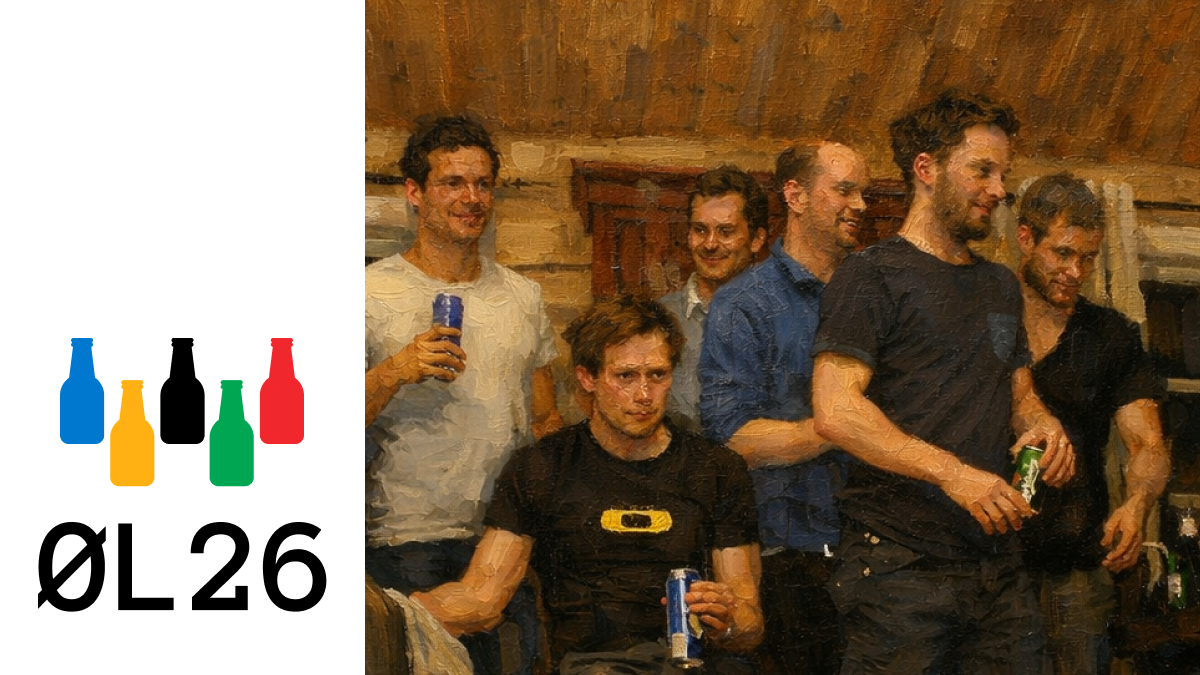
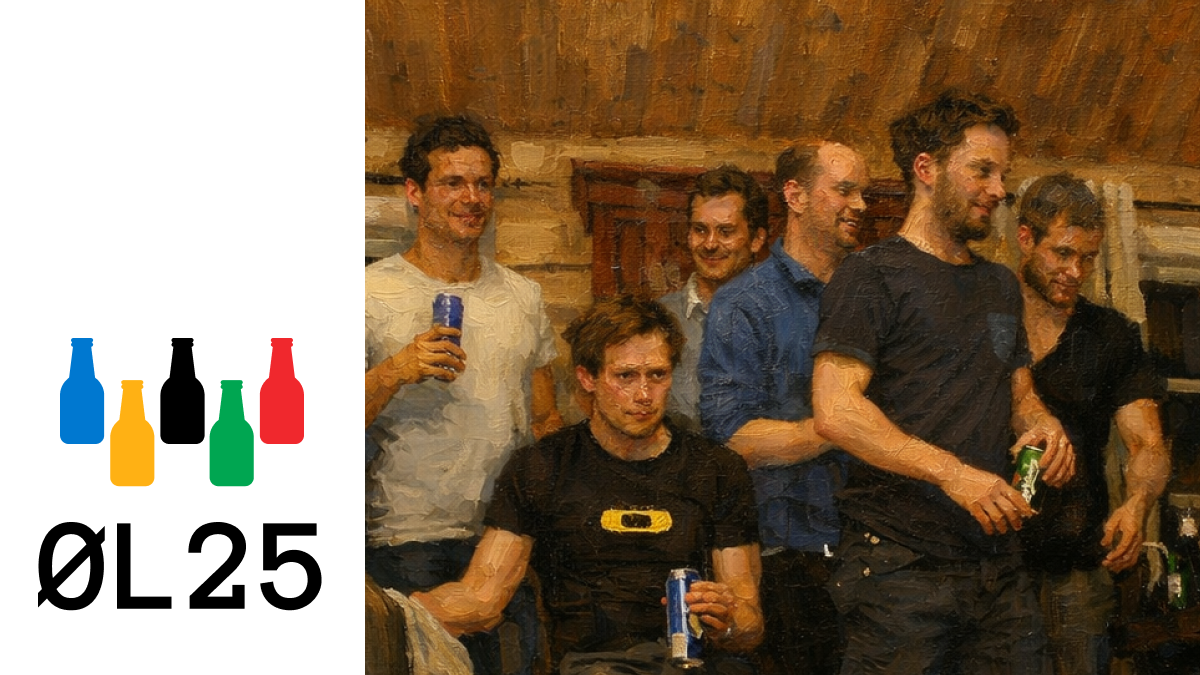
WIP

Changed region(s): [[0.0308, 0.7778, 0.2775, 0.9022]]

diff --git a/app/app.vue b/app/app.vue
@@ -5,19 +5,19 @@
 <script setup>
 
 useSeoMeta({
-  title: 'Ølympiske Leker 2026',
-  description: 'Velkommen til Ølympiske Leker 2026! Én gang i året leggir fornuften igjen hjemme, og en gjeng på 11 godt voksne mannfolk setter kursen mot Nesbyen for det som har blitt en høyt elsket tradisjon: hyttetur med Ølympiske Leker.',
-  twitterTitle: 'Ølympiske Leker 2026',
-  twitterDescription: 'Velkommen til Ølympiske Leker 2026! Én gang i året leggir fornuften igjen hjemme, og en gjeng på 11 godt voksne mannfolk setter kursen mot Nesbyen for det som har blitt en høyt elsket tradisjon: hyttetur med Ølympiske Leker.',
+  title: 'Ølympiske Leker 2025',
+  description: 'Velkommen til Ølympiske Leker 2025! Én gang i året leggir fornuften igjen hjemme, og en gjeng på 11 godt voksne mannfolk setter kursen mot Nesbyen for det som har blitt en høyt elsket tradisjon: hyttetur med Ølympiske Leker.',
+  twitterTitle: 'Ølympiske Leker 2025',
+  twitterDescription: 'Velkommen til Ølympiske Leker 2025! Én gang i året leggir fornuften igjen hjemme, og en gjeng på 11 godt voksne mannfolk setter kursen mot Nesbyen for det som har blitt en høyt elsket tradisjon: hyttetur med Ølympiske Leker.',
   twitterImage: 'https://olympiske-leker-2025.pages.dev/olympiskeleker_og_card.png',
   twitterCard: 'summary_large_image',
-  ogTitle: 'Ølympiske Leker 2026',
-  ogDescription: 'Velkommen til Ølympiske Leker 2026! Én gang i året leggir fornuften igjen hjemme, og en gjeng på 11 godt voksne mannfolk setter kursen mot Nesbyen for det som har blitt en høyt elsket tradisjon: hyttetur med Ølympiske Leker.',
+  ogTitle: 'Ølympiske Leker 2025',
+  ogDescription: 'Velkommen til Ølympiske Leker 2025! Én gang i året leggir fornuften igjen hjemme, og en gjeng på 11 godt voksne mannfolk setter kursen mot Nesbyen for det som har blitt en høyt elsket tradisjon: hyttetur med Ølympiske Leker.',
   ogImage: 'https://olympiske-leker-2025.pages.dev/olympiskeleker_og_card.png',
 });
 
 useHead({
-  titleTemplate: '%s - Ølympiske Leker 2026',
+  titleTemplate: '%s - Ølympiske Leker 2025',
   htmlAttrs: {
     lang: 'en',
   },

diff --git a/app/pages/index.vue b/app/pages/index.vue
@@ -4,8 +4,8 @@
     <div class="border-b-2 border-gray-100 h-[70px] flex items-center justify-center">
       <router-link to="/">
         <img
-          src="/img/olympiske_leker_2026_logo_horizontal.svg"
-          alt="Ølympiske Leker 2026 Text Logo"
+          src="/img/olympiske_leker_2025_logo_horizontal.svg"
+          alt="Ølympiske Leker 2025 Text Logo"
           class="h-[30px]"
         >
       </router-link>
@@ -13,8 +13,8 @@
 
     <!-- Hero Section -->
     <div class="flex flex-col items-center justify-center h-[calc(100vh-200px)] max-h-[400px] text-center px-4">
-      <img src="/img/olympiske_leker_2026_logo_horizontal.svg" alt="Olympiske Leker 2026 Logo" class="w-32 mb-4">
-      <h1 class="text-4xl font-bold mb-4">De Ølympiske<br>Leker 2026</h1>
+      <img src="/img/olympiske_leker_2025_logo_horizontal.svg" alt="Olympiske Leker 2025 Logo" class="w-32 mb-4">
+      <h1 class="text-4xl font-bold mb-4">De Ølympiske<br>Leker 2025</h1>
     </div>
 
     <!-- Countdown Section -->
